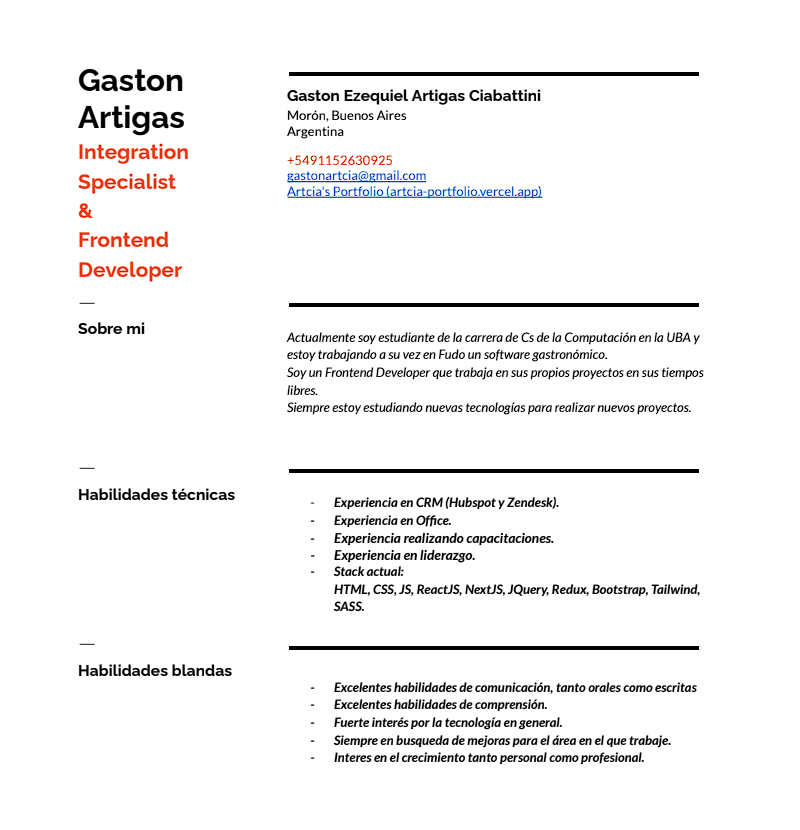
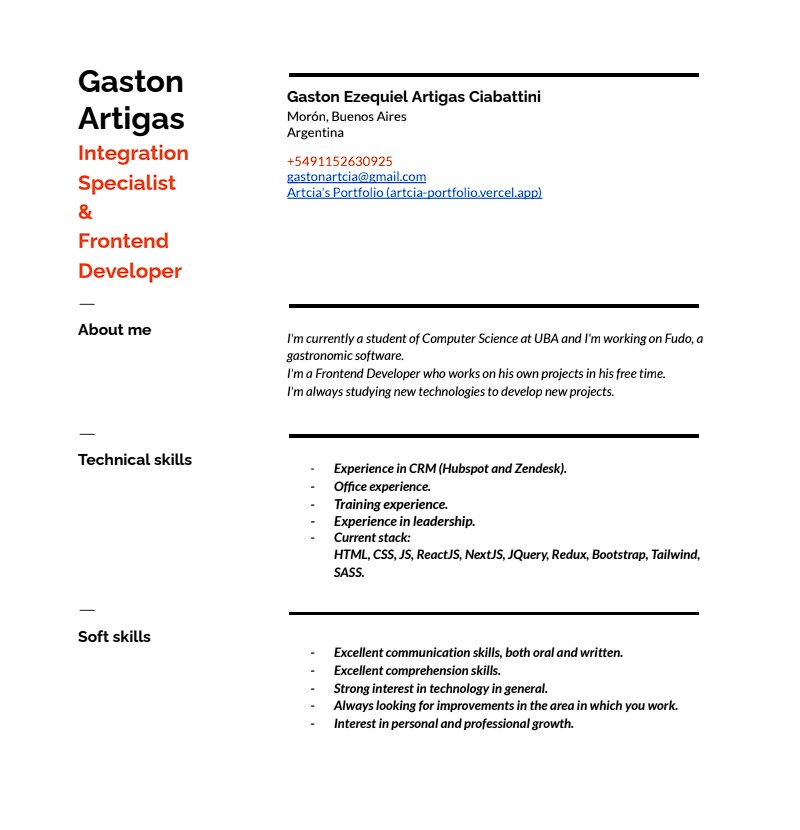
Add CV and correct a link

diff --git a/src/app/projects/page.jsx b/src/app/projects/page.jsx
@@ -21,7 +21,7 @@ const projects = [
   {
     label: "Pomodoro app",
     img: pomodoro,
-    url: "https://artcia-markdown.netlify.app",
+    url: "https://artcia-pomodoro.netlify.app/",
     git: "https://github.com/Gartcia/weather-app",
     stack: ["React", "Bootstrap"],
   },
